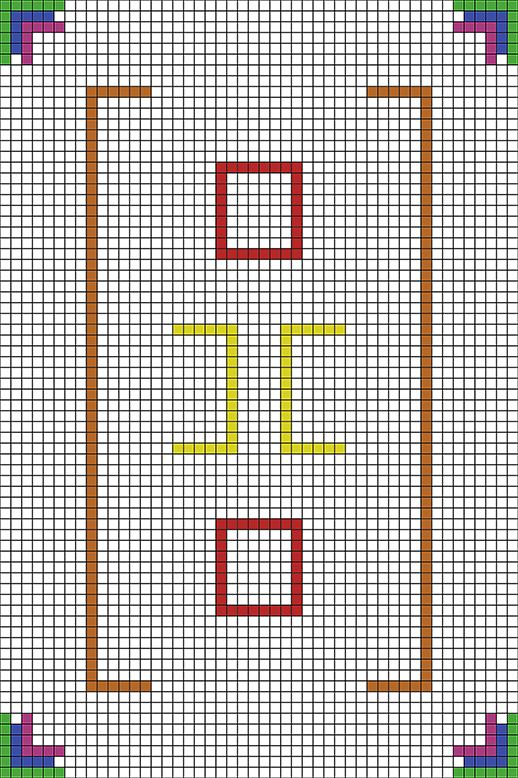
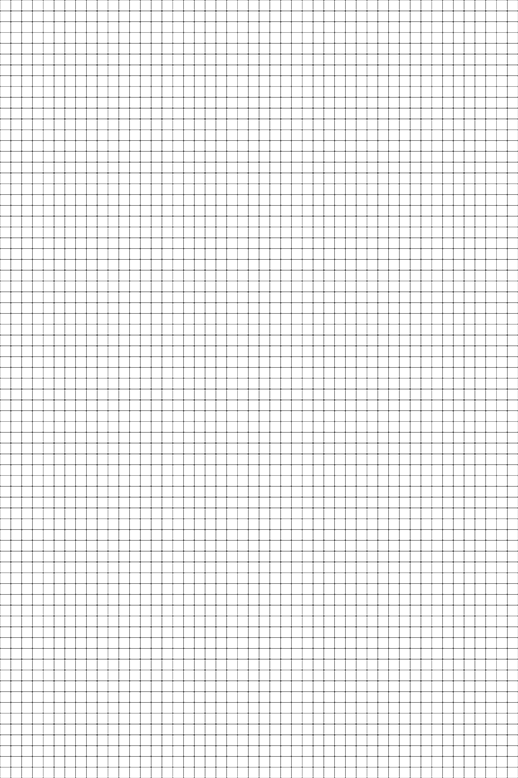
Variable zoom achieved

diff --git a/components/PlayArea.js b/components/PlayArea.js
@@ -1,5 +1,6 @@
 import React, { Component } from 'react'
 import { 
+    View,
     Image, 
     StyleSheet, 
     Animated,
@@ -78,18 +79,27 @@ export default class PlayArea extends Component {
         }
     }
 
-render() {
-    return (
-        <Animated.View
-            style={[this.position.getLayout(), styles.containerStyle]}
-            {...this.panResponder.panHandlers}
-        >
-        <TouchableWithoutFeedback onPress={this.handleDoubleTap}>
-            <Image style={this.state.isZoomedOut ? styles.zoomOut : styles.zoomIn} source={require('../graphics/temp/fullsize4x6grid25pctborderFAT.png')} />
-        </TouchableWithoutFeedback>
-        </Animated.View>
-    )
-  }
+    render() {
+        return (
+            <View>
+                <Image source={require('../graphics/temp/fullsize4x6grid25pct.png')} />
+            </View>
+        )
+    }
+
+// render() {
+//     return (
+//         <Animated.View
+//             style={[this.position.getLayout(), styles.containerStyle]}
+//             {...this.panResponder.panHandlers}
+//         >
+//         <TouchableWithoutFeedback onPress={this.handleDoubleTap}>
+//             <Image style={this.state.isZoomedOut ? styles.zoomOut : styles.zoomIn} source={require('../graphics/temp/fullsize4x6grid25pctborderFAT.png')} />
+//         </TouchableWithoutFeedback>
+//         </Animated.View>
+//     )
+//   }
+
 }
 
 const styles = StyleSheet.create({

diff --git a/screens/TestScreen.js b/screens/TestScreen.js
@@ -1,12 +1,16 @@
 import React, { Component } from 'react';
-import { View } from 'react-native';
-import PlayArea from '../components/PlayArea';
+import { View, Image } from 'react-native';
+// import PlayArea from '../components/PlayArea';
+import PinchZoomView from 'react-native-pinch-zoom-view';
+import MapGrid from '../graphics/temp/fullsize4x6grid15.png';
 export default class TestScreen extends Component {
   render() {
     return (
-      <View>
-        <PlayArea />
-      </View>
+      <PinchZoomView>
+        <View>
+          <Image source={MapGrid} />
+        </View>
+      </PinchZoomView>
     )
   }
 }
